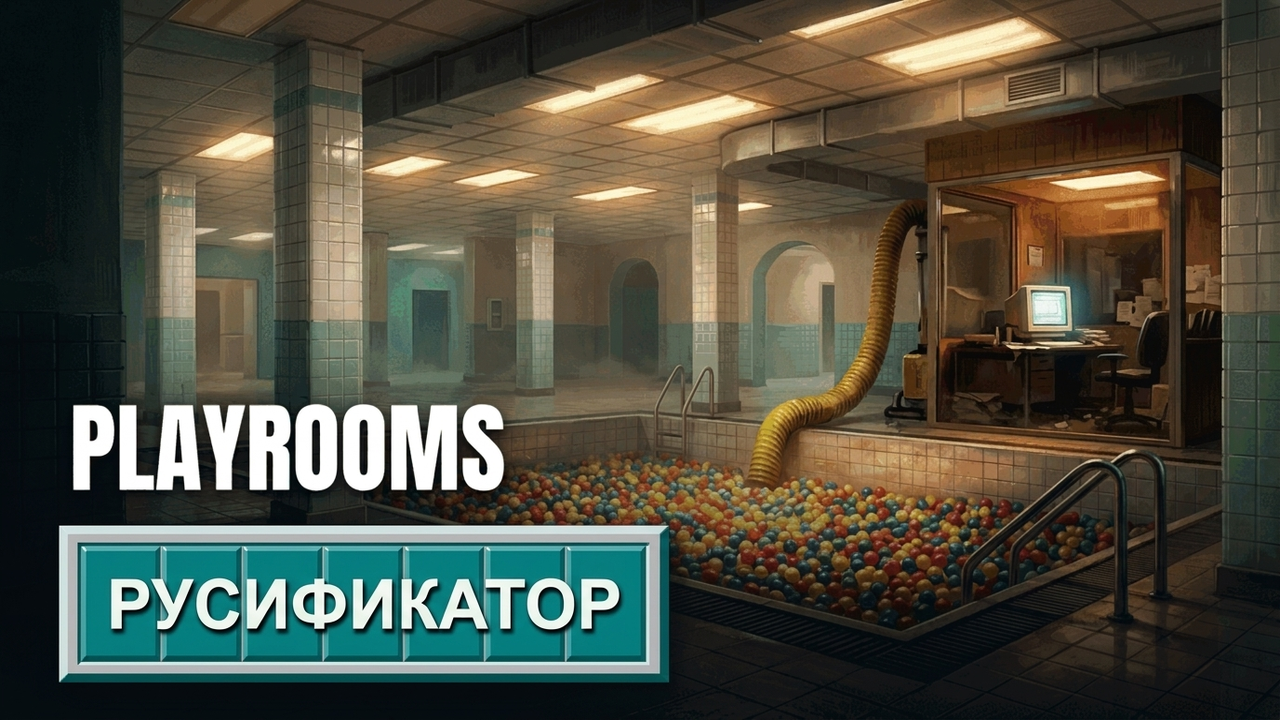
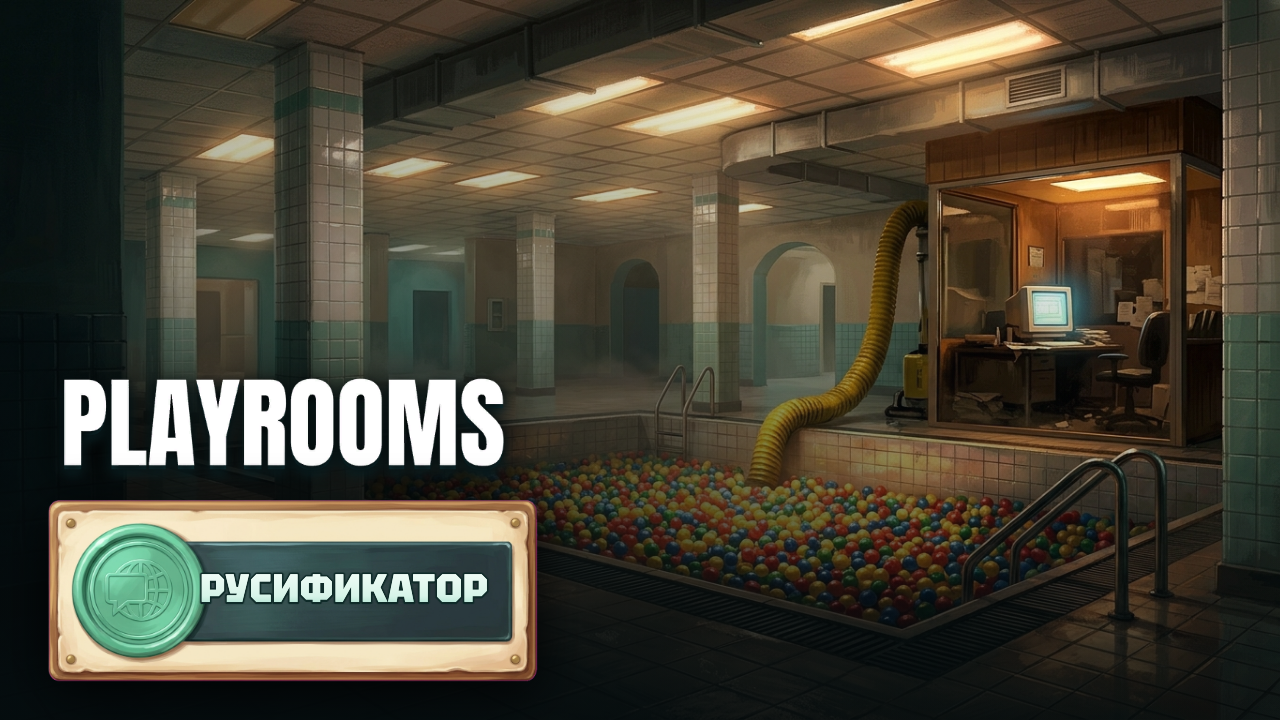
docs: polish README copy and refresh release visuals

diff --git a/README.md b/README.md
@@ -7,7 +7,7 @@
 - **Вариант 1 (Рекомендуется) - [Полное издание «2-в-1» на Boosty](https://boosty.to/cd_tixo/posts/0008f686-0666-4398-a5c7-c8a5b6d26d69?utm_source=github&utm_medium=readme&utm_campaign=playrooms):** единый установщик с выбором модулей (русификатор текста и 4 шрифтов + дополнительное внутриигровое мод-меню и настройка баланса для одиночной игры) и обновления под патчи.
 - **Вариант 2 - [Базовый русификатор v1.0 на GitHub Releases](https://github.com/neoru-droid/playrooms-ru/releases/tag/v1.0.0):** только перевод текста и 4 шрифтов · [Как установить](#установка) · [Руководство в Steam](https://steamcommunity.com/sharedfiles/filedetails/?id=3844623165)
 
-Проверено на версии 1.0.2 (сборка Steam 26705387) для **Windows** и **Steam Deck / Linux**. Достижения Steam продолжают открываться как в обычной игре, а кнопка удаления в любой момент возвращает чистый оригинал без перекачивания в Steam.
+Проверено на версии 1.0.2 (сборка Steam 26705387) для **Windows** и **Steam Deck / Linux**. Достижения Steam продолжают открываться, а кнопка удаления в любой момент возвращает оригинальные файлы.
 
 ![Playrooms · Русификатор](docs/screenshots/cover_wide.png)
 
@@ -57,7 +57,7 @@
 - **[Каталог релизов на Boosty](https://boosty.to/cd_tixo/posts/2a55d7e9-0f53-4d93-9f66-280981158dec?utm_source=github&utm_medium=readme&utm_campaign=playrooms)**
 - **[Каталог всех игр с поиском](https://neoru-droid.github.io/)**
 
-Перевод сделан с помощью нейросети и проверен в игре. Найдёте опечатку или косяк - пишите в [Issues](https://github.com/neoru-droid/playrooms-ru/issues), поправлю.
+Перевод сделан нейросетью и проверен в игре. Найдёте опечатку или косяк - пишите в [Issues](https://github.com/neoru-droid/playrooms-ru/issues), поправлю.
 
 ## Другие проекты
 - [Here Comes the Horde](https://github.com/neoru-droid/here-comes-the-horde-mod-ru)
